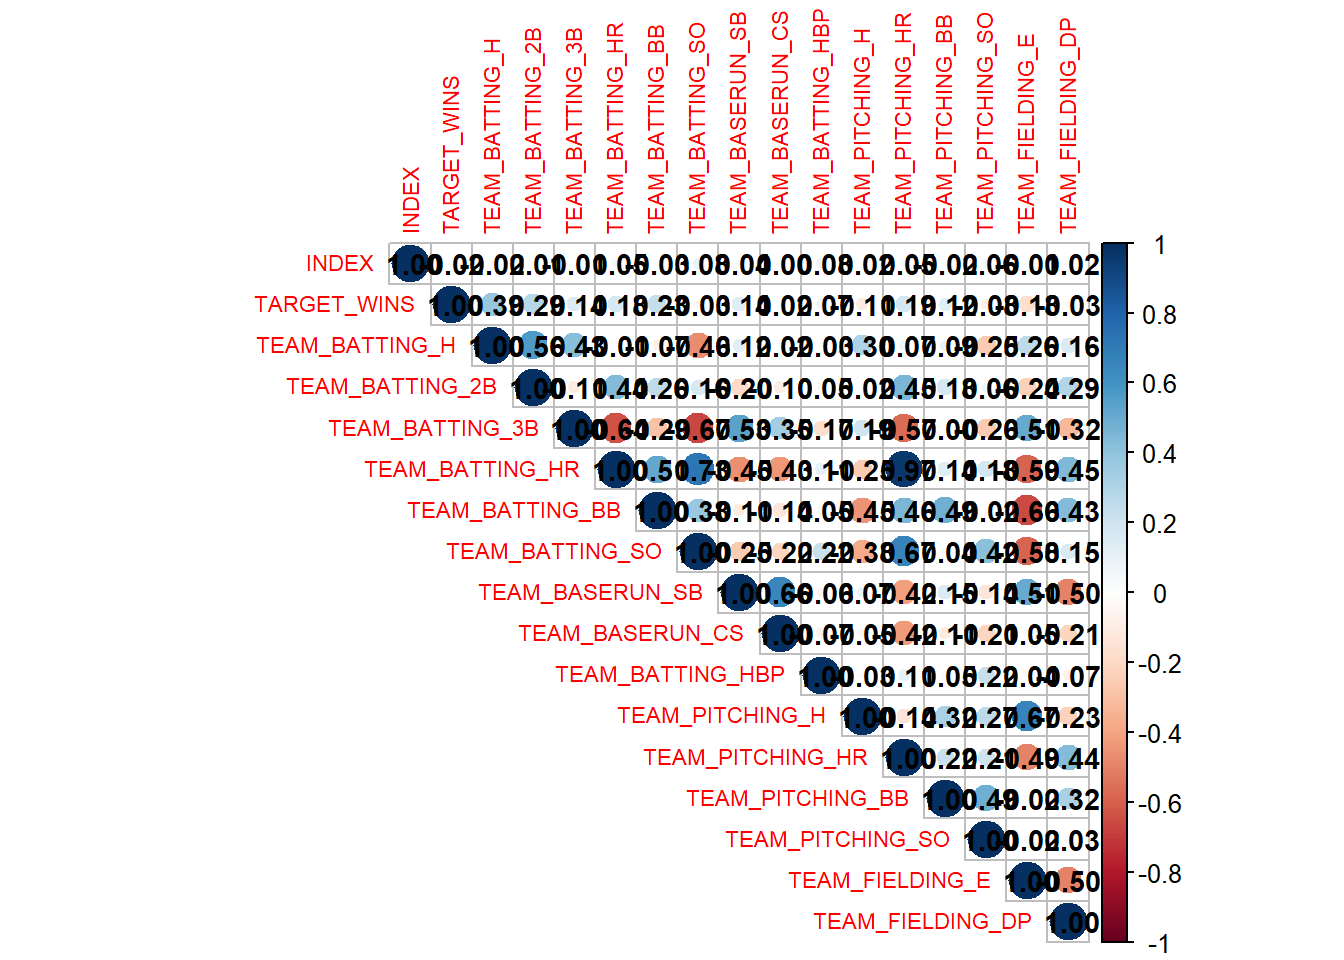
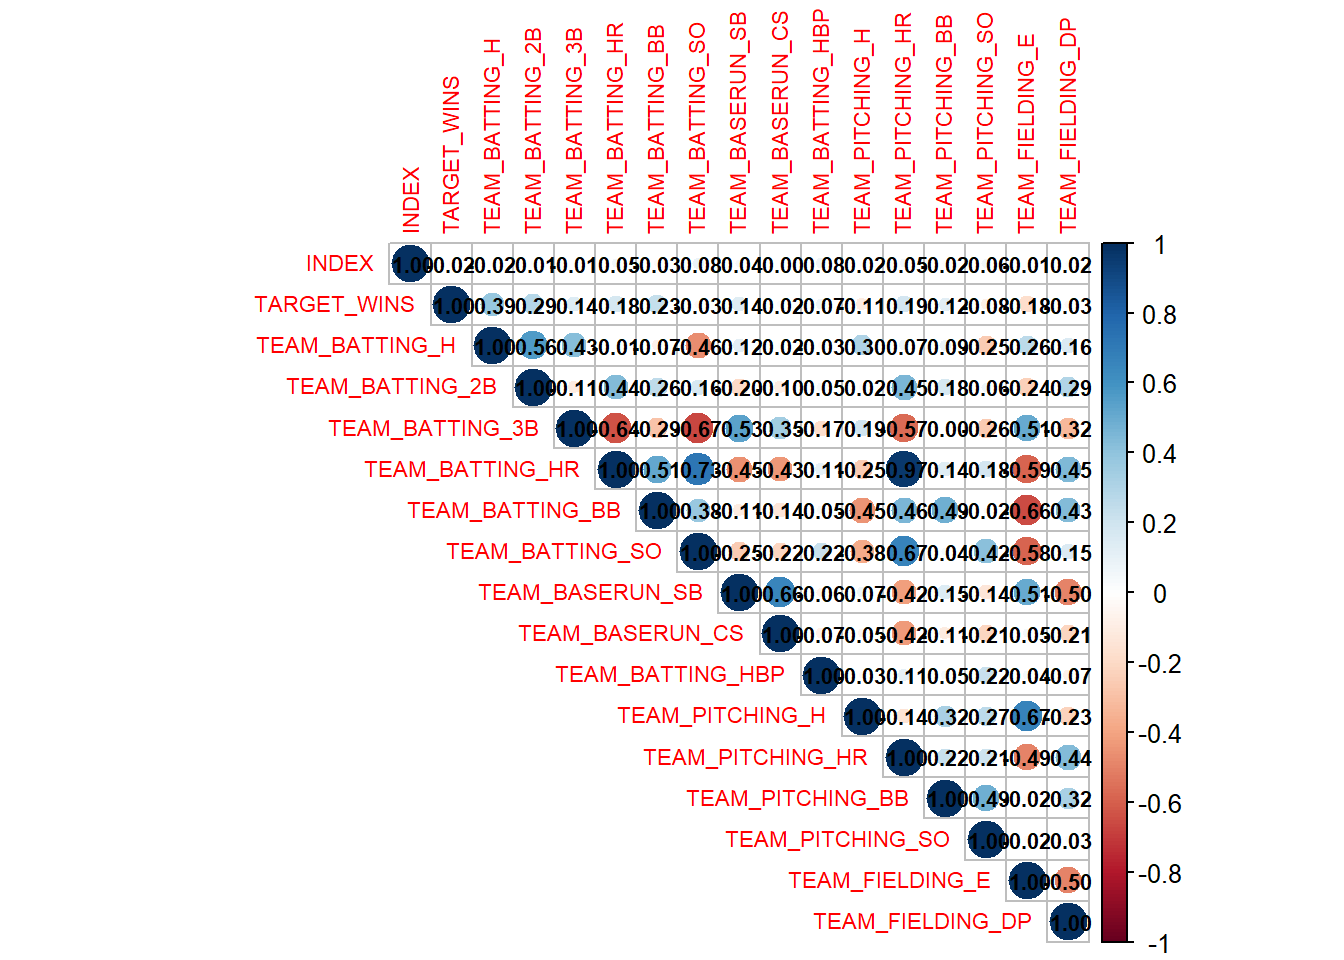
Added imputation

Changed region(s): [[0.2812, 0.25, 0.8125, 0.9688]]

diff --git a/homework-1/HW-1.html b/homework-1/HW-1.html
@@ -235,6 +235,7 @@ dbl (16): INDEX, TEAM_BATTING_H, TEAM_BATTING_2B, TEAM_BATTING_3B, TEAM_BATT...
 #   TEAM_FIELDING_DP &lt;dbl&gt;</code></pre>
 </div>
 </div>
+<p>The data are all numeric, and the target variable is <code>TARGET_WINS</code>, which represents the number of wins for the team in that season. The other variables represent various performance statistics for the team.</p>
 <p>We can also check summary statistics for all variables in our training data, including checking missingness.</p>
 <div class="cell">
 <div class="sourceCode cell-code" id="cb13"><pre class="sourceCode r code-with-copy"><code class="sourceCode r"><span id="cb13-1"><a href="#cb13-1" aria-hidden="true" tabindex="-1"></a>moneyball_train <span class="sc">|&gt;</span> <span class="fu">skim</span>()</span></code><button title="Copy to Clipboard" class="code-copy-button"><i class="bi"></i></button></pre></div>
@@ -535,14 +536,13 @@ dbl (16): INDEX, TEAM_BATTING_H, TEAM_BATTING_2B, TEAM_BATTING_3B, TEAM_BATT...
 <span id="cb14-2"><a href="#cb14-2" aria-hidden="true" tabindex="-1"></a>ncols <span class="ot">&lt;-</span> moneyball_train <span class="sc">|&gt;</span> <span class="fu">length</span>()</span>
 <span id="cb14-3"><a href="#cb14-3" aria-hidden="true" tabindex="-1"></a>perc_complete <span class="ot">&lt;-</span> <span class="fu">round</span>(moneyball_train <span class="sc">|&gt;</span> <span class="fu">n_complete</span>() <span class="sc">/</span> nrows <span class="sc">/</span> ncols <span class="sc">*</span> <span class="dv">100</span>, <span class="dv">2</span>)</span></code><button title="Copy to Clipboard" class="code-copy-button"><i class="bi"></i></button></pre></div>
 </div>
-<p>This training dataset contains 2276 rows and 17 features, and is 91.01 percent complete. The variables with the highest rates of missingness are:</p>
+<p>This training dataset contains 2276 rows and 17 features, and is 91.01 percent complete. The variables with missingness are:</p>
 <div class="cell">
 <div class="sourceCode cell-code" id="cb15"><pre class="sourceCode r code-with-copy"><code class="sourceCode r"><span id="cb15-1"><a href="#cb15-1" aria-hidden="true" tabindex="-1"></a>moneyball_train <span class="sc">|&gt;</span></span>
 <span id="cb15-2"><a href="#cb15-2" aria-hidden="true" tabindex="-1"></a>    <span class="fu">summarise</span>(<span class="fu">across</span>(<span class="fu">everything</span>(), <span class="sc">~</span> <span class="fu">sum</span>(<span class="fu">is.na</span>(.)) <span class="sc">/</span> nrows <span class="sc">*</span> <span class="dv">100</span>)) <span class="sc">|&gt;</span></span>
 <span id="cb15-3"><a href="#cb15-3" aria-hidden="true" tabindex="-1"></a>    <span class="fu">pivot_longer</span>(<span class="fu">everything</span>(), <span class="at">names_to =</span> <span class="st">"variable"</span>, <span class="at">values_to =</span> <span class="st">"missing_percentage"</span>) <span class="sc">|&gt;</span></span>
 <span id="cb15-4"><a href="#cb15-4" aria-hidden="true" tabindex="-1"></a>    <span class="fu">arrange</span>(<span class="fu">desc</span>(missing_percentage)) <span class="sc">|&gt;</span></span>
-<span id="cb15-5"><a href="#cb15-5" aria-hidden="true" tabindex="-1"></a>    <span class="fu">filter</span>(missing_percentage <span class="sc">&gt;</span> <span class="dv">0</span>) <span class="sc">|&gt;</span></span>
-<span id="cb15-6"><a href="#cb15-6" aria-hidden="true" tabindex="-1"></a>    <span class="fu">head</span>()</span></code><button title="Copy to Clipboard" class="code-copy-button"><i class="bi"></i></button></pre></div>
+<span id="cb15-5"><a href="#cb15-5" aria-hidden="true" tabindex="-1"></a>    <span class="fu">filter</span>(missing_percentage <span class="sc">&gt;</span> <span class="dv">0</span>)</span></code><button title="Copy to Clipboard" class="code-copy-button"><i class="bi"></i></button></pre></div>
 <div class="cell-output cell-output-stdout">
 <pre><code># A tibble: 6 × 2
   variable         missing_percentage
@@ -561,7 +561,7 @@ dbl (16): INDEX, TEAM_BATTING_H, TEAM_BATTING_2B, TEAM_BATTING_3B, TEAM_BATT...
 <div class="sourceCode cell-code" id="cb17"><pre class="sourceCode r code-with-copy"><code class="sourceCode r"><span id="cb17-1"><a href="#cb17-1" aria-hidden="true" tabindex="-1"></a>moneyball_train_cor <span class="ot">&lt;-</span> moneyball_train <span class="sc">|&gt;</span></span>
 <span id="cb17-2"><a href="#cb17-2" aria-hidden="true" tabindex="-1"></a>    <span class="fu">cor</span>(<span class="at">use =</span> <span class="st">"pairwise.complete.obs"</span>)</span>
 <span id="cb17-3"><a href="#cb17-3" aria-hidden="true" tabindex="-1"></a></span>
-<span id="cb17-4"><a href="#cb17-4" aria-hidden="true" tabindex="-1"></a><span class="fu">corrplot</span>(moneyball_train_cor, <span class="at">method =</span> <span class="st">"circle"</span>, <span class="at">type =</span> <span class="st">"upper"</span>, <span class="at">tl.cex =</span> <span class="fl">0.7</span>, <span class="at">sig.level =</span> <span class="fl">0.05</span>, <span class="at">insig =</span> <span class="st">"blank"</span>, <span class="at">addCoef.col =</span> <span class="st">"black"</span>, <span class="at">number.cex =</span> <span class="fl">0.9</span>)</span></code><button title="Copy to Clipboard" class="code-copy-button"><i class="bi"></i></button></pre></div>
+<span id="cb17-4"><a href="#cb17-4" aria-hidden="true" tabindex="-1"></a><span class="fu">corrplot</span>(moneyball_train_cor, <span class="at">method =</span> <span class="st">"circle"</span>, <span class="at">type =</span> <span class="st">"upper"</span>, <span class="at">tl.cex =</span> <span class="fl">0.7</span>, <span class="at">sig.level =</span> <span class="fl">0.05</span>, <span class="at">insig =</span> <span class="st">"blank"</span>, <span class="at">addCoef.col =</span> <span class="st">"black"</span>, <span class="at">number.cex =</span> <span class="fl">0.7</span>)</span></code><button title="Copy to Clipboard" class="code-copy-button"><i class="bi"></i></button></pre></div>
 <div class="cell-output-display">
 <div>
 <figure class="figure">
@@ -578,15 +578,19 @@ dbl (16): INDEX, TEAM_BATTING_H, TEAM_BATTING_2B, TEAM_BATTING_3B, TEAM_BATT...
 <span id="cb18-4"><a href="#cb18-4" aria-hidden="true" tabindex="-1"></a>    <span class="fu">select</span>(variable, TARGET_WINS) <span class="sc">|&gt;</span></span>
 <span id="cb18-5"><a href="#cb18-5" aria-hidden="true" tabindex="-1"></a>    <span class="fu">filter</span>(variable <span class="sc">!=</span> <span class="st">"TARGET_WINS"</span>) <span class="sc">|&gt;</span></span>
 <span id="cb18-6"><a href="#cb18-6" aria-hidden="true" tabindex="-1"></a>    <span class="fu">arrange</span>(<span class="fu">desc</span>(<span class="fu">abs</span>(TARGET_WINS))) <span class="sc">|&gt;</span></span>
-<span id="cb18-7"><a href="#cb18-7" aria-hidden="true" tabindex="-1"></a>    <span class="fu">head</span>()</span></code><button title="Copy to Clipboard" class="code-copy-button"><i class="bi"></i></button></pre></div>
+<span id="cb18-7"><a href="#cb18-7" aria-hidden="true" tabindex="-1"></a>    <span class="fu">head</span>(<span class="dv">10</span>)</span></code><button title="Copy to Clipboard" class="code-copy-button"><i class="bi"></i></button></pre></div>
 <div class="cell-output cell-output-stdout">
-<pre><code>          variable TARGET_WINS
-1   TEAM_BATTING_H   0.3887675
-2  TEAM_BATTING_2B   0.2891036
-3  TEAM_BATTING_BB   0.2325599
-4 TEAM_PITCHING_HR   0.1890137
-5  TEAM_FIELDING_E  -0.1764848
-6  TEAM_BATTING_HR   0.1761532</code></pre>
+<pre><code>           variable TARGET_WINS
+1    TEAM_BATTING_H   0.3887675
+2   TEAM_BATTING_2B   0.2891036
+3   TEAM_BATTING_BB   0.2325599
+4  TEAM_PITCHING_HR   0.1890137
+5   TEAM_FIELDING_E  -0.1764848
+6   TEAM_BATTING_HR   0.1761532
+7   TEAM_BATTING_3B   0.1426084
+8   TEAM_BASERUN_SB   0.1351389
+9  TEAM_PITCHING_BB   0.1241745
+10  TEAM_PITCHING_H  -0.1099371</code></pre>
 </div>
 </div>
 <p>These may be strong predictors of wins.</p>
@@ -841,8 +845,13 @@ dbl (16): INDEX, TEAM_BATTING_H, TEAM_BATTING_2B, TEAM_BATTING_3B, TEAM_BATT...
 <section id="data-preparation" class="level2">
 <h2 class="anchored" data-anchor-id="data-preparation">2. Data Preparation</h2>
 <p>Next, we will prepare the data for modeling.</p>
-<p>First, we handle missing data.</p>
-<p>Next, we</p>
+<p>First, we handle missing data. Since we saw in the EDA that <code>TEAM_BATTING_HBP</code>, <code>TEAM_BASERUN_CS</code>, and <code>TEAM_FIELDING_DP</code> were 91.6%, 33.9%, and 12.6% missing, respectively, and not very correlated with the target variable, so we will drop these variables. The remaining variables are less than 10% missing, so we will impute the missing values with the median of each variable. <code>TEAM_BASERUN_SB</code> is the most correlated variable with the target variable that has missingness, so we will be sure to impute this variable rather than drop it.</p>
+<p>The median imputation was picked based on the distributions of the variables with missingness: <code>TEAM_BASERUN_SB</code> and <code>TEAM_PITCHING_SO</code> have a long right tail so the median is a better imputation method than the mean. <code>TEAM_BATTING_SO</code> is bimodal, so the median is also a better imputation method than the mean for this variable. See the histograms above for the distributions of these variables.</p>
+<div class="cell">
+<div class="sourceCode cell-code" id="cb47"><pre class="sourceCode r code-with-copy"><code class="sourceCode r"><span id="cb47-1"><a href="#cb47-1" aria-hidden="true" tabindex="-1"></a>moneyball_train_prepared <span class="ot">&lt;-</span> moneyball_train <span class="sc">|&gt;</span></span>
+<span id="cb47-2"><a href="#cb47-2" aria-hidden="true" tabindex="-1"></a>    <span class="fu">select</span>(<span class="sc">-</span>TEAM_BATTING_HBP, <span class="sc">-</span>TEAM_BASERUN_CS, <span class="sc">-</span>TEAM_FIELDING_DP) <span class="sc">|&gt;</span></span>
+<span id="cb47-3"><a href="#cb47-3" aria-hidden="true" tabindex="-1"></a>    <span class="fu">mutate</span>(<span class="fu">across</span>(<span class="fu">everything</span>(), <span class="sc">~</span> <span class="fu">ifelse</span>(<span class="fu">is.na</span>(.), <span class="fu">median</span>(., <span class="at">na.rm =</span> <span class="cn">TRUE</span>), .)))</span></code><button title="Copy to Clipboard" class="code-copy-button"><i class="bi"></i></button></pre></div>
+</div>
 </section>
 <section id="build-models" class="level2">
 <h2 class="anchored" data-anchor-id="build-models">3. Build Models</h2>
